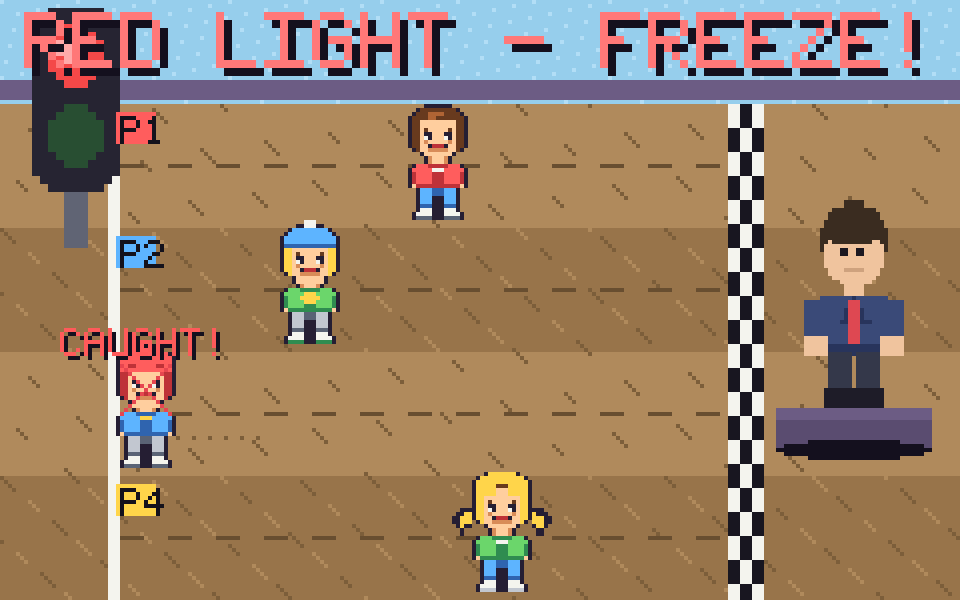
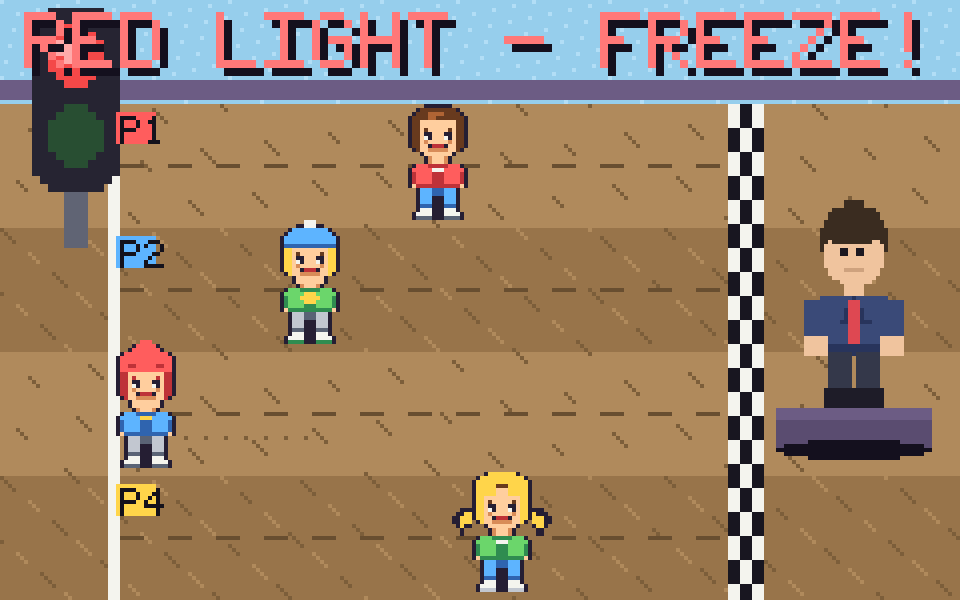
RLGL mockup: caught player just restarts from the start (no out-marking)
Moving on red simply sends you back to the beginning and you keep racing
— removed the CAUGHT!/X overlay so it no longer reads as elimination.

Claude-Session: https://claude.ai/code/session_01BmHu9ZjHHfJoGBLXT33Kpc

Changed region(s): [[0.0625, 0.54, 0.25, 0.69], [0.25, 0.72, 0.2812, 0.75], [0.1875, 0.72, 0.2188, 0.75]]

diff --git a/art/rlgl.py b/art/rlgl.py
@@ -154,11 +154,9 @@ def scene(state, count, progress=None):
         t = pf.text("P" + str(i + 1), 1, (20, 18, 28)); im.alpha_composite(t, (START_X, y0 + 3))
         sc2 = min(1.15, (laneH - 6) / 22)
         if i == caught:
-            x = START_X + 6                                              # sent back to start
-            for k in range(6): px(im, x + 8 + k * 4, feetY - 8, DIRT3)  # dust trail back to start
+            x = START_X + 6                                              # moved on red -> simply restarts from the beginning (still racing)
+            for k in range(7): px(im, x + 10 + k * 5, feetY - 8, DIRT3)  # faint dust trail = just zipped back to start
             fighter(im, ZN[i], x, feetY, scale=sc2, flip=False, alpha=255)
-            bub = pf.text_shadow("CAUGHT!", 1, (255, 90, 90)); im.alpha_composite(bub, (x - bub.width // 2, feetY - int(22 * sc2) - 10))
-            d.line([x - 6, feetY - 26, x + 6, feetY - 14], fill=(*RED, 255)); d.line([x + 6, feetY - 26, x - 6, feetY - 14], fill=(*RED, 255))
         else:
             fighter(im, ZN[i], x, feetY, scale=sc2, flip=False, alpha=255)
             if not red:                                                  # little speed lines while running
